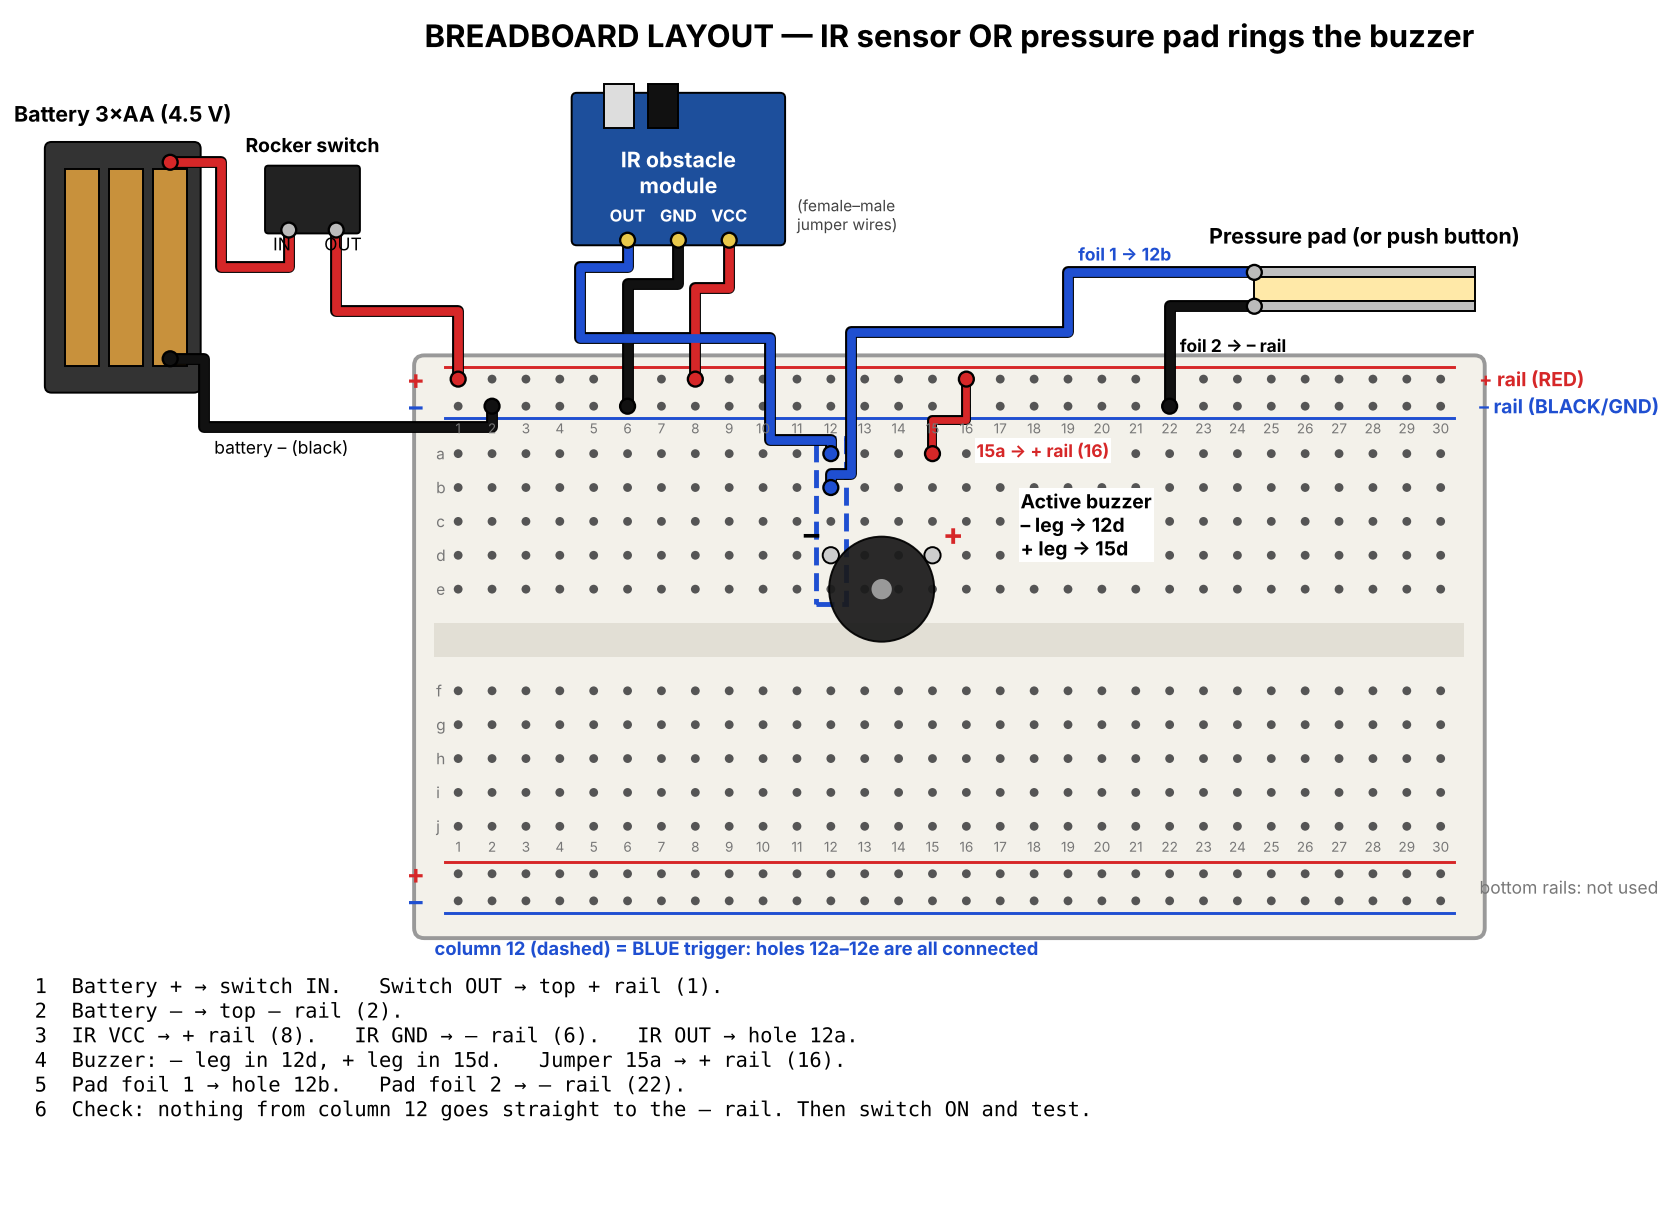
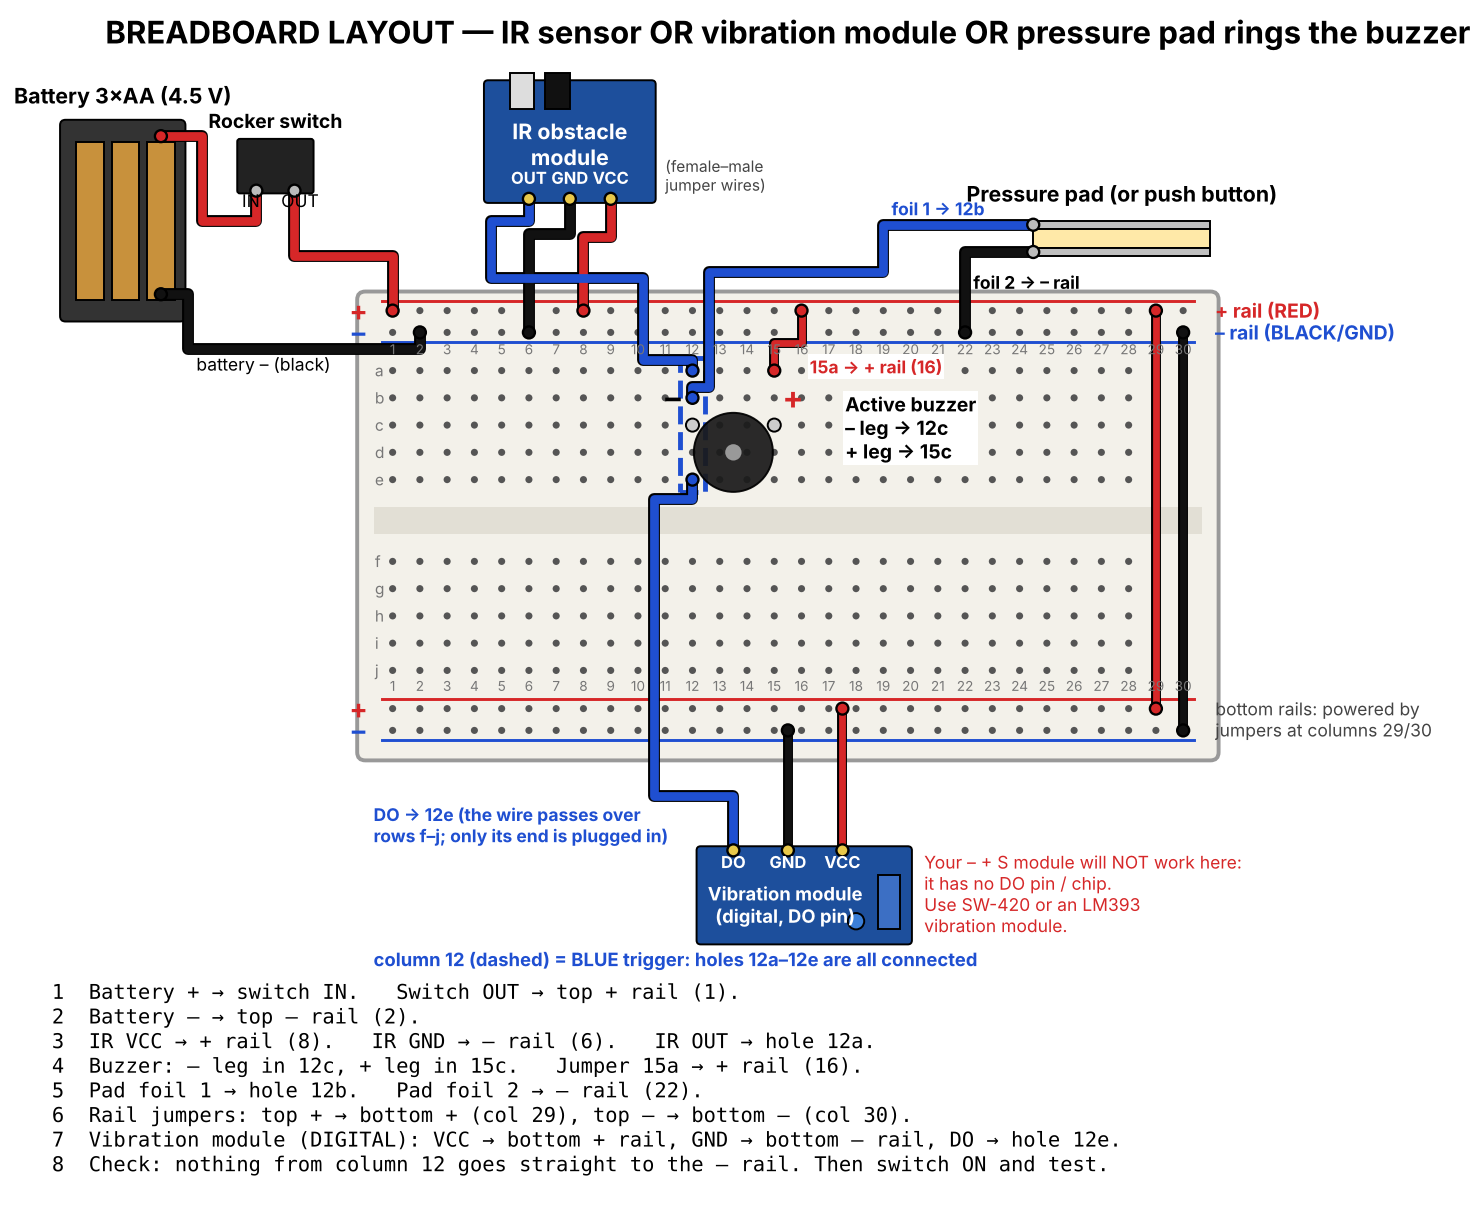
Breadboard layout: add digital vibration module on column 12
Claude-Session: https://claude.ai/code/session_01UqKNKqGxTkCEsbKhzft9TN

Changed region(s): [[0.0, 0.0, 0.9919, 0.9761]]

diff --git a/alarm-circuit/breadboard.py b/alarm-circuit/breadboard.py
@@ -22,10 +22,10 @@ for yy,col,lab in [(TOPP,R,'+'),(TOPN,BL,'–'),(BOTP,R,'+'),(BOTN,BL,'–')]:
     for c in range(1,31): ax.add_patch(Circle((c,yy),0.13,fc='#555',zorder=2))
     T(-0.25,yy,lab,color=col,fontsize=14,weight='bold',va='center',ha='center')
 T(31.0,TOPP,' + rail (RED)',color=R,va='center',fontsize=10,weight='bold'); T(31.0,TOPN,' – rail (BLACK/GND)',color=BL,va='center',fontsize=10,weight='bold')
-T(31.0,-1.8,' bottom rails: not used',va='center',fontsize=9,color='#777')
+T(31.0,-1.8,' bottom rails: powered by\n jumpers at columns 29/30',va='center',fontsize=9,color='#444')
 # highlight trigger column 12
 ax.add_patch(Rectangle((11.55,6.55),0.9,4.9,fc='none',ec=BL,lw=2.5,ls='--',zorder=3))
-T(0.3,-3.6,'column 12 (dashed) = BLUE trigger: holes 12a–12e are all connected',va='center',fontsize=9.5,color=BL,weight='bold',zorder=11)
+T(0.3,-10.6,'column 12 (dashed) = BLUE trigger: holes 12a–12e are all connected',va='center',fontsize=9.5,color=BL,weight='bold',zorder=11)
 # ---- battery + switch (off board) ----
 ax.add_patch(FancyBboxPatch((-11,13),4.2,7,boxstyle='round,pad=0.2',fc='#333',ec='k',zorder=4))
 for i in range(3): ax.add_patch(Rectangle((-10.6+i*1.3,13.6),1.0,5.8,fc='#c8913c',ec='k',zorder=5))
@@ -47,10 +47,10 @@ wire([(7.5,17.3),(7.5,16.0),(6,16.0),(6,TOPN)],K); end(6,TOPN,K)
 wire([(6,17.3),(6,16.5),(4.6,16.5),(4.6,14.4),(10.2,14.4),(10.2,11.4),(12,11.4),(12,11)],BL); end(12,11,BL)
 T(11.0,17.6,'(female–male\njumper wires)',fontsize=8,color='#444')
 # ---- buzzer on board: – leg col 12 row c, + leg col 15 row c ----
-ax.add_patch(Circle((13.5,7.0),1.55,fc='#1a1a1a',ec='k',zorder=8,alpha=0.93)); ax.add_patch(Circle((13.5,7.0),0.3,fc='#999',zorder=9))
-T(15.3,8.3,'+',color=R,fontsize=16,weight='bold',zorder=11); T(11.2,8.3,'–',fontsize=16,weight='bold',zorder=11)
-T(17.6,8.9,'Active buzzer\n– leg → 12d\n+ leg → 15d',va='center',fontsize=10,weight='bold',bbox=dict(fc='white',ec='none',pad=1))
-ax.add_patch(Circle((12,8),0.24,fc='#ccc',ec='k',zorder=10)); ax.add_patch(Circle((15,8),0.24,fc='#ccc',ec='k',zorder=10))
+ax.add_patch(Circle((13.5,8.0),1.45,fc='#1a1a1a',ec='k',zorder=8,alpha=0.93)); ax.add_patch(Circle((13.5,8.0),0.3,fc='#999',zorder=9))
+T(15.3,9.6,'+',color=R,fontsize=16,weight='bold',zorder=11); T(11.0,9.6,'–',fontsize=16,weight='bold',zorder=11)
+T(17.6,8.9,'Active buzzer\n– leg → 12c\n+ leg → 15c',va='center',fontsize=10,weight='bold',bbox=dict(fc='white',ec='none',pad=1))
+ax.add_patch(Circle((12,9),0.24,fc='#ccc',ec='k',zorder=10)); ax.add_patch(Circle((15,9),0.24,fc='#ccc',ec='k',zorder=10))
 wire([(15,11),(15,12.0),(16,12.0),(16,TOPP)],R,3.5); end(15,11,R); end(16,TOPP,R)
 T(16.3,10.9,'15a → + rail (16)',fontsize=9,color=R,weight='bold',bbox=dict(fc='white',ec='none',pad=1))
 # ---- pressure pad / button (off board) ----
@@ -62,14 +62,30 @@ end(24.5,16.35,'#bbb'); end(24.5,15.35,'#bbb')
 wire([(24.5,16.35),(19,16.35),(19,14.6),(12.6,14.6),(12.6,10.4),(12,10.4),(12,10)],BL); end(12,10,BL)
 wire([(24.5,15.35),(22,15.35),(22,TOPN)],K); end(22,TOPN,K)
 T(19.3,16.7,'foil 1 → 12b',fontsize=9,color=BL,weight='bold'); T(22.3,14.0,'foil 2 → – rail',fontsize=9,weight='bold')
-T(15.5,23,'BREADBOARD LAYOUT — IR sensor OR pressure pad rings the buzzer',ha='center',fontsize=16,weight='bold')
+T(15.5,23,'BREADBOARD LAYOUT — IR sensor OR vibration module OR pressure pad rings the buzzer',ha='center',fontsize=16,weight='bold')
 steps=['1  Battery + → switch IN.   Switch OUT → top + rail (1).',
        '2  Battery – → top – rail (2).',
        '3  IR VCC → + rail (8).   IR GND → – rail (6).   IR OUT → hole 12a.',
-       '4  Buzzer: – leg in 12d, + leg in 15d.   Jumper 15a → + rail (16).',
+       '4  Buzzer: – leg in 12c, + leg in 15c.   Jumper 15a → + rail (16).',
        '5  Pad foil 1 → hole 12b.   Pad foil 2 → – rail (22).',
-       '6  Check: nothing from column 12 goes straight to the – rail. Then switch ON and test.']
+       '6  Rail jumpers: top + → bottom + (col 29), top – → bottom – (col 30).',
+       '7  Vibration module (DIGITAL): VCC → bottom + rail, GND → bottom – rail, DO → hole 12e.',
+       '8  Check: nothing from column 12 goes straight to the – rail. Then switch ON and test.']
 for i,s in enumerate(steps): T(-11,-3.4-i*0.0 - 0 if False else 9.0-i*1.05,s,fontsize=10,ha='left',va='center',bbox=None) if False else None
-T(-11.5,-4.4,'\n'.join(steps),fontsize=10.5,va='top',family='monospace')
-ax.set_ylim(-11,24)
+T(-11.5,-11.4,'\n'.join(steps),fontsize=10.5,va='top',family='monospace')
+ax.set_ylim(-19.5,24)
+# rail bridge jumpers
+wire([(29,TOPP),(29,BOTP)],R,3.5); end(29,TOPP,R); end(29,BOTP,R)
+wire([(30,TOPN),(30,BOTN)],K,3.5); end(30,TOPN,K); end(30,BOTN,K)
+# digital vibration module below board
+ax.add_patch(FancyBboxPatch((12.3,-9.9),7.6,3.3,boxstyle='round,pad=0.15',fc='#1d4f9c',ec='k',zorder=4))
+ax.add_patch(Rectangle((18.8,-9.5),0.8,2.0,fc='#3c6fc4',ec='k',zorder=5))
+ax.add_patch(Circle((18.0,-9.2),0.3,fc='#3b7fd8',ec='k',zorder=5))
+T(15.4,-8.6,'Vibration module\n(digital, DO pin)',ha='center',va='center',color='white',fontsize=9.5,weight='bold',zorder=11)
+for x,n in [(13.5,'DO'),(15.5,'GND'),(17.5,'VCC')]: T(x,-7.25,n,ha='center',fontsize=8.5,weight='bold',color='white',zorder=11); end(x,-6.6,'#e8c84a')
+wire([(17.5,-6.6),(17.5,BOTP)],R,3.5); end(17.5,BOTP,R)
+wire([(15.5,-6.6),(15.5,BOTN)],K,3.5); end(15.5,BOTN,K)
+wire([(13.5,-6.6),(13.5,-4.6),(10.6,-4.6),(10.6,6.3),(12,6.3),(12,7)],BL); end(12,7,BL)
+T(0.3,-6.3,'DO → 12e (the wire passes over\nrows f–j; only its end is plugged in)',fontsize=9,color=BL,weight='bold')
+T(20.5,-8.2,'Your – + S module will NOT work here:\nit has no DO pin / chip.\nUse SW-420 or an LM393\nvibration module.',fontsize=9,color=R,va='center')
 plt.savefig('breadboard_layout.png',dpi=140,bbox_inches='tight',facecolor='white')
